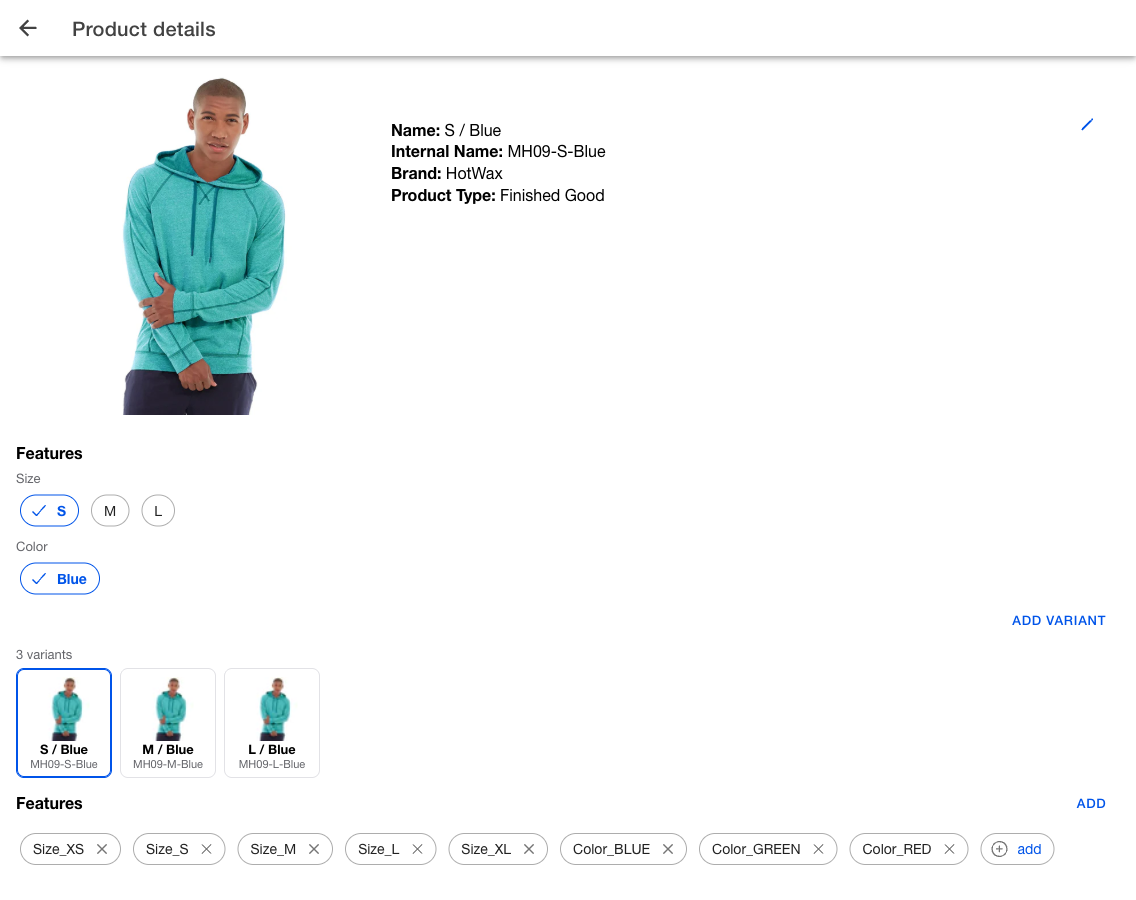
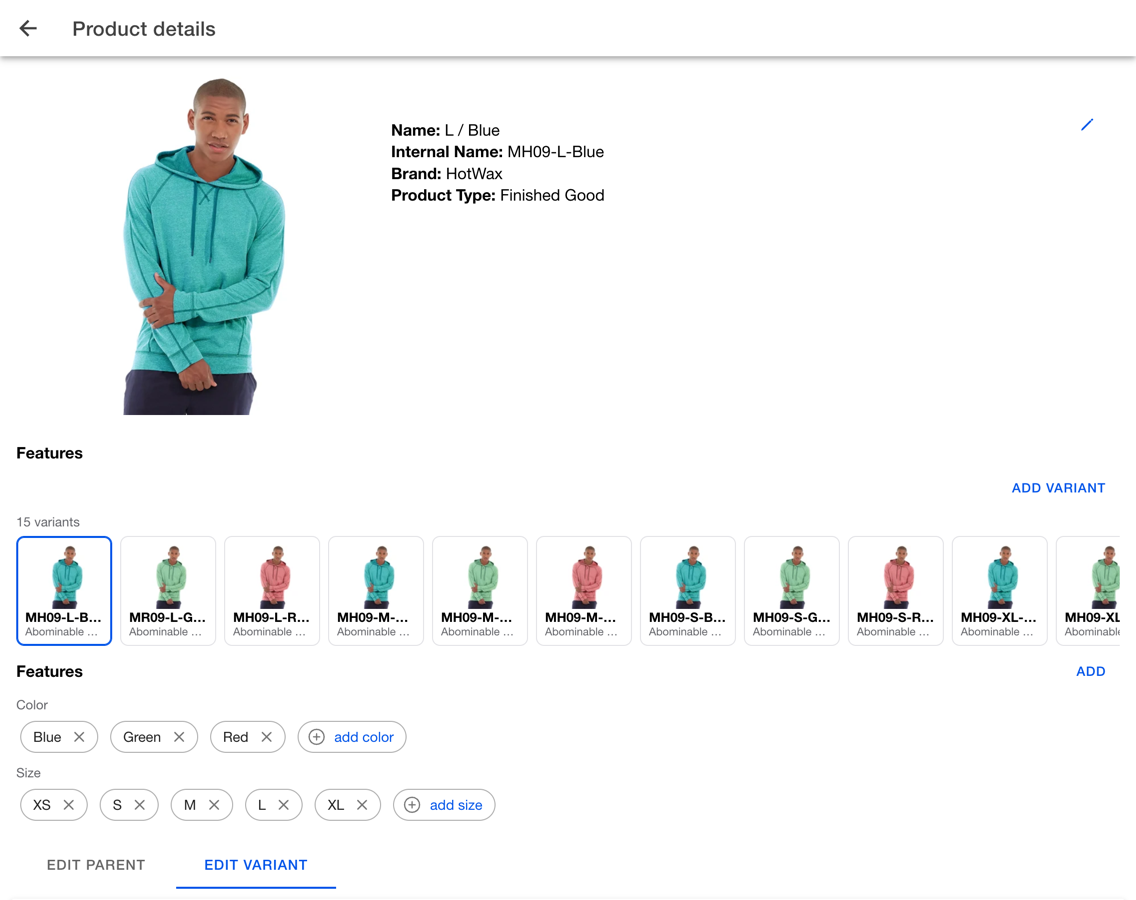
docs: recapture Products app screenshots for the products#80 layout
hotwax/oms-documentation#1921 merged before these were swapped in. It
removed the stale Product workbench screenshot and left Product details
and Settings showing the old layout.

- Product workbench: new capture from the demo OMS (search "abominable",
  sorted by Product family) with the filter bar, Clear filters, match
  count and Select. Restores the figure removed in bc569b04.
- Product details: variant MH09-L-Blue with the variant strip and
  Edit parent / Edit variant.
- Settings: OMS instance, Demo Store and the new Product identifier card.
  Alt text now mentions the card.

Captured on the demo OMS (Demo Store) at the sizes of the images they
replace. The account card was hidden so no personal name or username
appears.

diff --git a/documents/retail-operations/products/product-management.md b/documents/retail-operations/products/product-management.md
@@ -45,6 +45,8 @@ The search text, filters, tags, and sort stay in place when you reload the page.
 
 A new search, filter, or sort keeps only the selected products that are still listed, so a product hidden by the search isn't tagged.
 
+<figure><img src="../.gitbook/assets/product-workbench.png" alt="Product workbench filtered to the Abominable Hoodie product family from the demo OMS, sorted by Product family"><figcaption><p>Find and triage products in the Product workbench</p></figcaption></figure>
+
 ## 2. Inspect and edit product details
 
 **Goal:** Confirm the product family and update the correct parent or variant without overwriting unrelated product data.
@@ -273,7 +275,7 @@ The Products app does not provide search-index status or a manual index rebuild 
 
 **Outcome:** You have confirmed the OMS and store context, ruled out search filters and a retryable load error, or prepared a focused escalation for index recovery.
 
-<figure><img src="../.gitbook/assets/products-settings.png" alt="Products app settings showing the demo OMS instance and Demo Store"><figcaption><p>Confirm the OMS instance and current product store</p></figcaption></figure>
+<figure><img src="../.gitbook/assets/products-settings.png" alt="Products app settings showing the demo OMS instance, Demo Store, and the Product identifier card"><figcaption><p>Confirm the OMS instance and current product store</p></figcaption></figure>
 
 ## 7. Choose the product identifier shown on product rows
 
